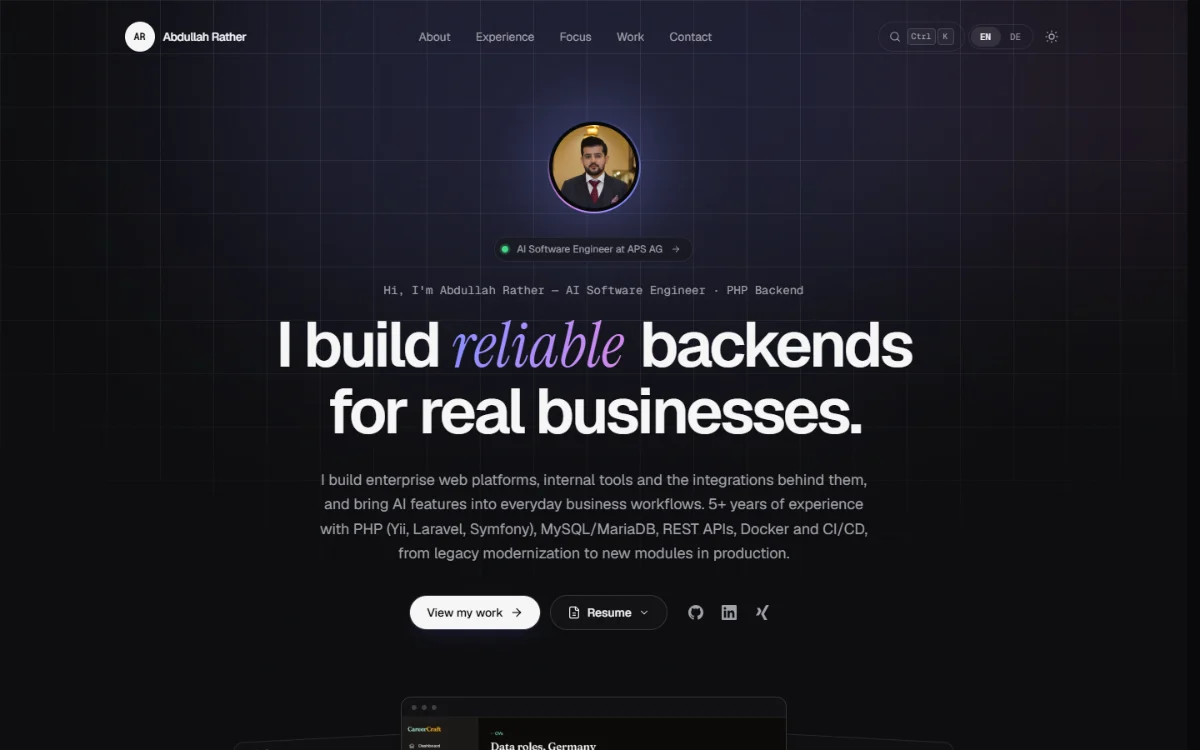
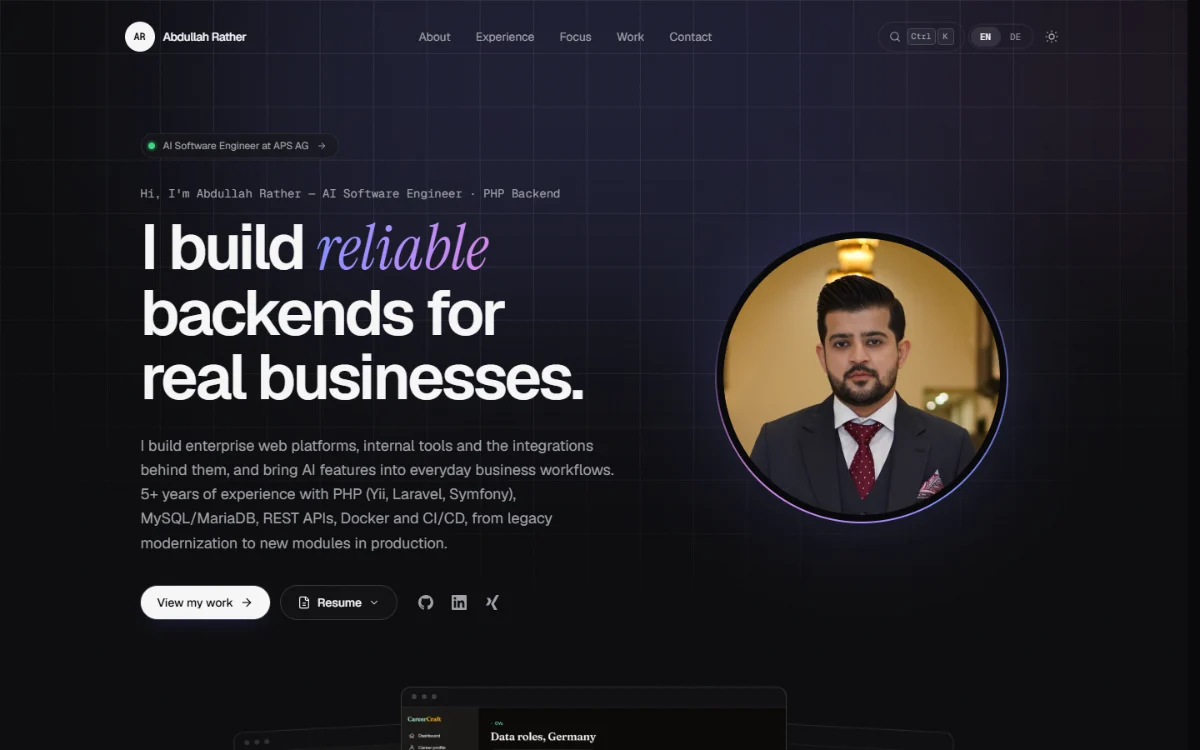
Restore the hero layout and keep the case-study windows under it
The text is on the left and the large round portrait on the right again, as
before. The fan of case-study windows stays below the buttons.

diff --git a/src/components/Hero.jsx b/src/components/Hero.jsx
@@ -84,12 +84,12 @@ const ResumeMenu = () => {
 const Portrait = () => {
   const { t } = useTranslation();
   return (
-    <div className="enter relative mx-auto size-24 sm:size-28">
+    <div className="enter relative order-first mx-auto w-full max-w-32 sm:max-w-88 lg:order-none" style={delay(200)}>
       {/* Glow */}
-      <div aria-hidden="true" className="absolute -inset-4 -z-10 rounded-full bg-accent/30 blur-2xl" />
+      <div aria-hidden="true" className="absolute inset-6 -z-10 rounded-full bg-accent/30 blur-3xl" />
 
-      <div className="ring-conic relative size-full rounded-full p-0.5">
-        <div className="size-full rounded-full bg-bg p-1">
+      <div className="ring-conic relative aspect-square rounded-full p-0.5">
+        <div className="size-full rounded-full bg-bg p-2">
           <picture>
             <source srcSet="/images/profile-avatar.avif" type="image/avif" />
             <img
@@ -152,61 +152,73 @@ const Hero = () => {
   const years = useExperienceYears();
 
   return (
-    <section id="top" className="relative overflow-hidden pb-16 pt-28 sm:pt-36 lg:pb-24">
-      <div className="container-x text-center">
-        <Portrait />
+    <section id="top" className="relative overflow-hidden pb-16 pt-32 sm:pt-40 lg:pb-24">
+      <div className="container-x">
+        <div className="grid items-center gap-12 lg:grid-cols-[1.35fr_1fr] lg:gap-10">
+          <div className="text-center lg:text-left">
+            <a
+              href="#experience"
+              className="enter group inline-flex items-center gap-2.5 rounded-full border border-line bg-card py-1.5 pl-2 pr-3.5 text-xs text-muted backdrop-blur transition-colors hover:border-line-strong hover:text-fg"
+            >
+              <span className="relative flex size-2">
+                <span className="absolute inline-flex size-full animate-ping-slow rounded-full bg-ok opacity-60" />
+                <span className="relative inline-flex size-2 rounded-full bg-ok" />
+              </span>
+              {t("ui.available")}
+              <Icon name="arrowRight" className="size-3 transition-transform group-hover:translate-x-0.5" />
+            </a>
 
-        <a
-          href="#experience"
-          className="enter group mt-7 inline-flex items-center gap-2.5 rounded-full border border-line bg-card py-1.5 pl-2 pr-3.5 text-xs text-muted backdrop-blur transition-colors hover:border-line-strong hover:text-fg"
-          style={delay(60)}
-        >
-          <span className="relative flex size-2">
-            <span className="absolute inline-flex size-full animate-ping-slow rounded-full bg-ok opacity-60" />
-            <span className="relative inline-flex size-2 rounded-full bg-ok" />
-          </span>
-          {t("ui.available")}
-          <Icon name="arrowRight" className="size-3 transition-transform group-hover:translate-x-0.5" />
-        </a>
+            <p className="enter mt-8 font-mono text-sm text-muted" style={delay(60)}>
+              {t("ui.hero.greeting")}
+              <span className="hidden sm:inline"> — {t("hero.role")}</span>
+            </p>
 
-        <p className="enter mt-6 font-mono text-sm text-muted" style={delay(100)}>
-          {t("ui.hero.greeting")}
-          <span className="hidden sm:inline"> — {t("hero.role")}</span>
-        </p>
+            <h1
+              className="enter mt-4 text-[clamp(1.9rem,9.6vw,2.75rem)] font-semibold leading-[1.02] tracking-[-0.045em] sm:text-6xl lg:text-[4.25rem] xl:text-[4.75rem]"
+              style={delay(120)}
+            >
+              {t("ui.hero.headline_a")} <span className="serif-em">{t("ui.hero.headline_em")}</span>{" "}
+              {t("ui.hero.headline_b")}
+            </h1>
 
-        <h1
-          className="enter mx-auto mt-4 max-w-4xl text-[clamp(1.9rem,9.6vw,2.6rem)] font-semibold leading-[1.04] tracking-[-0.045em] sm:text-6xl lg:text-[4.75rem]"
-          style={delay(140)}
-        >
-          {t("ui.hero.headline_a")} <span className="serif-em">{t("ui.hero.headline_em")}</span>{" "}
-          {t("ui.hero.headline_b")}
-        </h1>
+            <p
+              className="enter mx-auto mt-7 max-w-xl text-base leading-relaxed text-muted sm:text-lg lg:mx-0"
+              style={delay(200)}
+            >
+              {t("hero.summary", { years })}
+            </p>
 
-        <p className="enter mx-auto mt-7 max-w-2xl text-base leading-relaxed text-muted sm:text-lg" style={delay(200)}>
-          {t("hero.summary", { years })}
-        </p>
-
-        <div className="enter mt-9 flex flex-wrap items-center justify-center gap-3" style={delay(280)}>
-          <a href="#projects" className="btn btn-primary group">
-            {t("ui.hero.cta_work")}
-            <Icon name="arrowRight" className="size-4 transition-transform duration-300 group-hover:translate-x-0.5" />
-          </a>
-          <ResumeMenu />
-          <div className="ml-1 flex items-center gap-1">
-            {SOCIALS.map((s) => (
-              <a
-                key={s.id}
-                href={s.url}
-                target="_blank"
-                rel="noopener noreferrer"
-                className="icon-btn"
-                aria-label={s.name}
-                title={s.name}
-              >
-                <Icon name={s.id} className="size-4.5" />
+            <div
+              className="enter mt-9 flex flex-wrap items-center justify-center gap-3 lg:justify-start"
+              style={delay(280)}
+            >
+              <a href="#projects" className="btn btn-primary group">
+                {t("ui.hero.cta_work")}
+                <Icon
+                  name="arrowRight"
+                  className="size-4 transition-transform duration-300 group-hover:translate-x-0.5"
+                />
               </a>
-            ))}
+              <ResumeMenu />
+              <div className="ml-1 flex items-center gap-1">
+                {SOCIALS.map((s) => (
+                  <a
+                    key={s.id}
+                    href={s.url}
+                    target="_blank"
+                    rel="noopener noreferrer"
+                    className="icon-btn"
+                    aria-label={s.name}
+                    title={s.name}
+                  >
+                    <Icon name={s.id} className="size-4.5" />
+                  </a>
+                ))}
+              </div>
+            </div>
           </div>
+
+          <Portrait />
         </div>
       </div>
 
